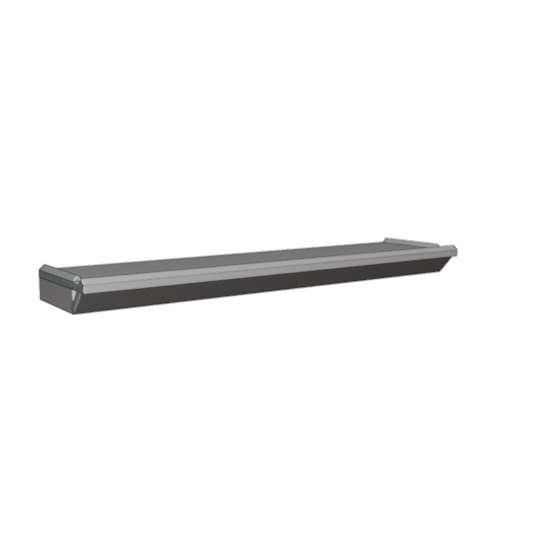
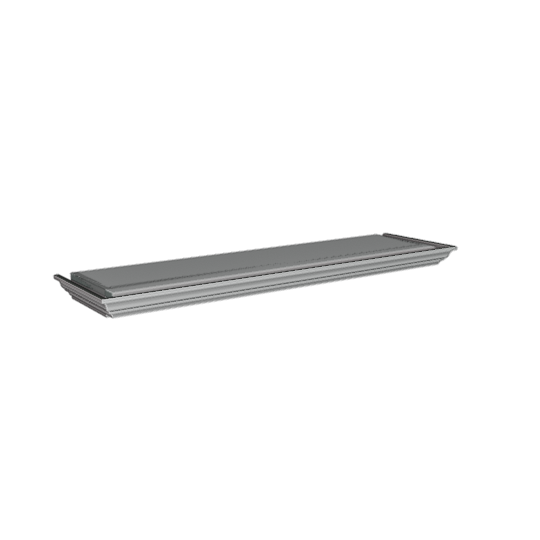
Mantle crown is a real moulding profile extruded around the mantle
The three flat sloped crown boards are replaced by one curve sweep:
the selected profile from the installed molding packs is beveled along
the front and returned down each finished end, mitred at the corners
by the curve bevel. A Crown dropdown on the mantle (shown for crown
styles) picks the profile exactly like the room molding overrides;
Default resolves per style - Traditional/Colonial get 51 Crown, Shaker
gets Shaker Cove, Victorian gets Beaded Crown, Classic gets the Mantle
moulding. The core setback follows the profile's measured front depth,
and profiles taller than the under-slab space scale down to it. The
sloped boards remain only as a fallback when no molding pack provides
the profile.

Thumbnail re-rendered with the real moulding.

Changed region(s): [[0.0593, 0.4148, 0.8593, 0.5926]]

diff --git a/product_libraries/face_frame/types_face_frame.py b/product_libraries/face_frame/types_face_frame.py
@@ -185,6 +185,7 @@ PART_ROLE_MANTLE_PANEL_RIGHT = 'MANTLE_PANEL_RIGHT'
 PART_ROLE_MANTLE_CROWN_FRONT = 'MANTLE_CROWN_FRONT'
 PART_ROLE_MANTLE_CROWN_LEFT = 'MANTLE_CROWN_LEFT'
 PART_ROLE_MANTLE_CROWN_RIGHT = 'MANTLE_CROWN_RIGHT'
+PART_ROLE_MANTLE_CROWN_SWEEP = 'MANTLE_CROWN_SWEEP'
 
 VALANCE_TAG = 'IS_VALANCE_PRODUCT'
 PART_ROLE_VALANCE_BOARD = 'VALANCE_BOARD'
@@ -10441,6 +10442,18 @@ MANTLE_STYLE_SPECS = {
     'COLONIAL': (7.5, 1.75),
 }
 
+# Standard moulding per style (the crown_profile 'DEFAULT' choice), as
+# molding-pack profile refs. The moulding is extruded around the mantle
+# front and finished ends; the style spec's projection is only the
+# fallback when no molding pack provides the profile.
+MANTLE_STYLE_CROWN = {
+    'TRADITIONAL': 'Crown Molding/51 Crown',
+    'SHAKER': 'Crown Molding/Shaker Cove',
+    'VICTORIAN': 'Crown Molding/Beaded Crown',
+    'CLASSIC': 'Other/Mantle',
+    'COLONIAL': 'Crown Molding/51 Crown',
+}
+
 
 def mantle_style_spec(style):
     return MANTLE_STYLE_SPECS.get(style, MANTLE_STYLE_SPECS['CONTEMPORARY'])
@@ -10525,6 +10538,93 @@ class MantleFaceFrameProduct(FaceFrameCabinet):
         return {role: self._ensure_mantle_part(role, name)
                 for role, name in spec}
 
+    def _crown_sweep_obj(self):
+        for child in self.obj.children:
+            if child.get('hb_part_role') == PART_ROLE_MANTLE_CROWN_SWEEP:
+                return child
+        return None
+
+    def _rebuild_crown_sweep(self, ref, width, depth, z_slab, fl, fr):
+        """Extrude the crown moulding profile around the mantle: along
+        the front and returned down each finished end, mitred at the
+        corners by the curve bevel. Returns the profile's front depth
+        (the core setback) when the sweep built, else None (caller
+        falls back to the flat sloped boards).
+
+        The profile is reloaded every rebuild - cheap, and it keeps the
+        clamp (profiles taller than the under-slab space are scaled
+        down to it) correct when the height or style changes.
+        """
+        from ...molding import packages
+        sweep = self._crown_sweep_obj()
+
+        def _hide():
+            if sweep is not None:
+                old = sweep.data.bevel_object
+                if old is not None:
+                    sweep.data.bevel_object = None
+                    bpy.data.objects.remove(old, do_unlink=True)
+                sweep.hide_viewport = True
+                sweep.hide_render = True
+            return None
+
+        if not ref:
+            return _hide()
+        crown_h = packages.profile_top_height(ref, None)
+        proj = packages.profile_front_depth(ref, None)
+        if crown_h <= 1e-5 or proj <= 1e-5:
+            return _hide()
+
+        if sweep is None:
+            curve_data = bpy.data.curves.new('Mantle Crown', 'CURVE')
+            sweep = bpy.data.objects.new('Mantle Crown', curve_data)
+            for coll in self.obj.users_collection:
+                coll.objects.link(sweep)
+            sweep.parent = self.obj
+            sweep['hb_part_role'] = PART_ROLE_MANTLE_CROWN_SWEEP
+            sweep['IS_MANTLE_CROWN'] = True
+        curve = sweep.data
+        curve.dimensions = '2D'
+        curve.fill_mode = 'NONE'
+        curve.bevel_mode = 'OBJECT'
+        curve.use_fill_caps = True
+
+        old = curve.bevel_object
+        height = z_slab if crown_h > z_slab - 1e-4 else None
+        coll = (self.obj.users_collection[0] if self.obj.users_collection
+                else bpy.context.scene.collection)
+        prof = packages.make_profile_object(
+            ref, None, 'Mantle Crown Profile', coll, height=height)
+        if prof is None:
+            return _hide()
+        curve.bevel_object = prof
+        prof.parent = sweep
+        if old is not None and old is not prof:
+            bpy.data.objects.remove(old, do_unlink=True)
+        eff_h = min(crown_h, z_slab)
+
+        curve.splines.clear()
+        pts = []
+        if fl:
+            pts.append((0.0, 0.0))
+        pts += [(0.0, -depth), (width, -depth)]
+        if fr:
+            pts.append((width, 0.0))
+        spline = curve.splines.new('BEZIER')
+        spline.use_smooth = False
+        spline.bezier_points.add(count=len(pts) - 1)
+        for bp, (x, y) in zip(spline.bezier_points, pts):
+            bp.co = (x, y, 0.0)
+            bp.handle_left_type = 'VECTOR'
+            bp.handle_right_type = 'VECTOR'
+
+        sweep.location = (0.0, 0.0, z_slab - eff_h)
+        sweep.rotation_euler = (0.0, 0.0, 0.0)
+        sweep.hide_viewport = False
+        sweep.hide_render = False
+        sweep['IS_FINISHED'] = True
+        return proj
+
     def recalculate(self):
         cab = self.obj.face_frame_cabinet
         mp = self.obj.mantle_product
@@ -10597,18 +10697,23 @@ class MantleFaceFrameProduct(FaceFrameCabinet):
                 if not p.get('IS_MANUAL_PART'):
                     p.hide_viewport = True
                     p.hide_render = True
+            self._rebuild_crown_sweep(None, width, depth, height, fl, fr)
             return
 
         # --- Crown styles (catalog sections): the top slab overhangs a
-        # set-back core; the crown band slopes from under the slab's
-        # front edge back and down to the core, returned along each
-        # finished end. Straight sloped boards stand in for the real
-        # moulding profiles for now; corners butt rather than miter.
+        # set-back core; the crown moulding is extruded from under the
+        # slab's front edge, returned along each finished end. The
+        # profile comes from the molding packs (crown_profile, DEFAULT
+        # resolving per style); when no pack provides it, straight
+        # sloped boards stand in.
         z_slab = height - mt          # underside of the top slab
-        drop = z_slab                 # crown runs slab underside -> bottom
-        slope_len = math.hypot(proj, drop)
-        tilt = math.atan2(proj, drop)
-        crown_rot_x = math.radians(-90) + tilt
+        ref = mp.crown_profile
+        if not ref or ref == 'DEFAULT':
+            ref = MANTLE_STYLE_CROWN.get(mp.mantle_style)
+        sweep_proj = self._rebuild_crown_sweep(
+            ref, width, depth, z_slab, fl, fr)
+        if sweep_proj is not None:
+            proj = min(sweep_proj, max(depth - mt, 0.0))
         core_y = -depth + proj        # core front face plane
 
         # Top slab: full width x full depth, overhanging the crown.
@@ -10628,18 +10733,25 @@ class MantleFaceFrameProduct(FaceFrameCabinet):
         place(RP, depth - proj, z_slab, mt, (width, 0.0, 0.0),
               (math.radians(-90), 0.0, math.radians(90)),
               {'Mirror X': True, 'Mirror Y': True}, show=fr)
-        # Crown band + returns. Width-axis direction with rot.x =
-        # tilt - 90 is (0, sin t, -cos t): back toward the wall and
-        # down; the returns get the same tilt with a Z quarter-turn so
-        # they slope down and inward from the finished end.
-        # Returns stop where the front band's slope lands (depth - proj)
-        # so the corner butts cleanly instead of poking through.
+
+        # Fallback boards, only when no profile resolved. Width-axis
+        # direction with rot.x = tilt - 90 is (0, sin t, -cos t): back
+        # toward the wall and down; the returns get the same tilt with
+        # a Z quarter-turn so they slope down and inward, trimmed to
+        # the slope landing so the corner butts cleanly.
+        boards = sweep_proj is None
+        drop = z_slab
+        slope_len = math.hypot(proj, drop)
+        tilt = math.atan2(proj, drop)
+        crown_rot_x = math.radians(-90) + tilt
         place(CF, width, slope_len, mt, (0.0, -depth, z_slab),
-              (crown_rot_x, 0.0, 0.0), {})
+              (crown_rot_x, 0.0, 0.0), {}, show=boards)
         place(CL, depth - proj, slope_len, mt, (0.0, 0.0, z_slab),
-              (crown_rot_x, 0.0, math.radians(-90)), {}, show=fl)
+              (crown_rot_x, 0.0, math.radians(-90)), {},
+              show=boards and fl)
         place(CR, depth - proj, slope_len, mt, (width, -depth + proj, z_slab),
-              (crown_rot_x, 0.0, math.radians(90)), {}, show=fr)
+              (crown_rot_x, 0.0, math.radians(90)), {},
+              show=boards and fr)
 
 
 class ValanceFaceFrameProduct(FaceFrameCabinet):

diff --git a/product_libraries/face_frame/props_hb_face_frame.py b/product_libraries/face_frame/props_hb_face_frame.py
@@ -9533,6 +9533,27 @@ class Face_Frame_Floating_Shelf_Props(PropertyGroup):
     )  # type: ignore
 
 
+_mantle_crown_items_cache = []
+
+
+def _mantle_crown_profile_items(self, context):
+    """Crown choices for the mantle: the mantle mouldings plus every
+    crown profile from the installed molding packs. DEFAULT resolves
+    per style (types_face_frame.MANTLE_STYLE_CROWN)."""
+    from ...molding import packages
+    global _mantle_crown_items_cache
+    items = [('DEFAULT', "Default (by Style)",
+              "The style's standard moulding")]
+    other = {i[0] for i in packages.profile_enum_items('Other')}
+    for n in ('Mantle', 'Mini Mantle'):
+        if n in other:
+            items.append(("Other/" + n, n + " Moulding", ""))
+    for ident, label, desc in packages.profile_enum_items('Crown Molding')[1:]:
+        items.append(("Crown Molding/" + ident, label, desc))
+    _mantle_crown_items_cache = items
+    return _mantle_crown_items_cache
+
+
 def _update_mantle_style(self, context):
     """Mantle style change: re-seed the overall height to the style's
     standard build (the styles differ in height and under-crown), then
@@ -9568,6 +9589,13 @@ class Face_Frame_Mantle_Props(PropertyGroup):
         ],
         default='CONTEMPORARY',
         update=_update_mantle_style,
+    )  # type: ignore
+    crown_profile: EnumProperty(
+        name="Crown Profile",
+        description="Moulding profile extruded around the mantle front"
+                    " and finished ends (Default follows the style)",
+        items=_mantle_crown_profile_items,
+        update=_update_cabinet_dim,
     )  # type: ignore
     finish_left: BoolProperty(
         name="Finish Left", default=True, update=_update_cabinet_dim,

diff --git a/product_libraries/face_frame/ui_face_frame.py b/product_libraries/face_frame/ui_face_frame.py
@@ -514,6 +514,8 @@ def draw_mantle_product(layout, root):
     mantle = root.mantle_product
 
     layout.prop(mantle, 'mantle_style', text="Style")
+    if mantle.mantle_style != 'CONTEMPORARY':
+        layout.prop(mantle, 'crown_profile', text="Crown")
 
     col = layout.column(align=True)
     col.prop(cab, 'width', text="Width")
